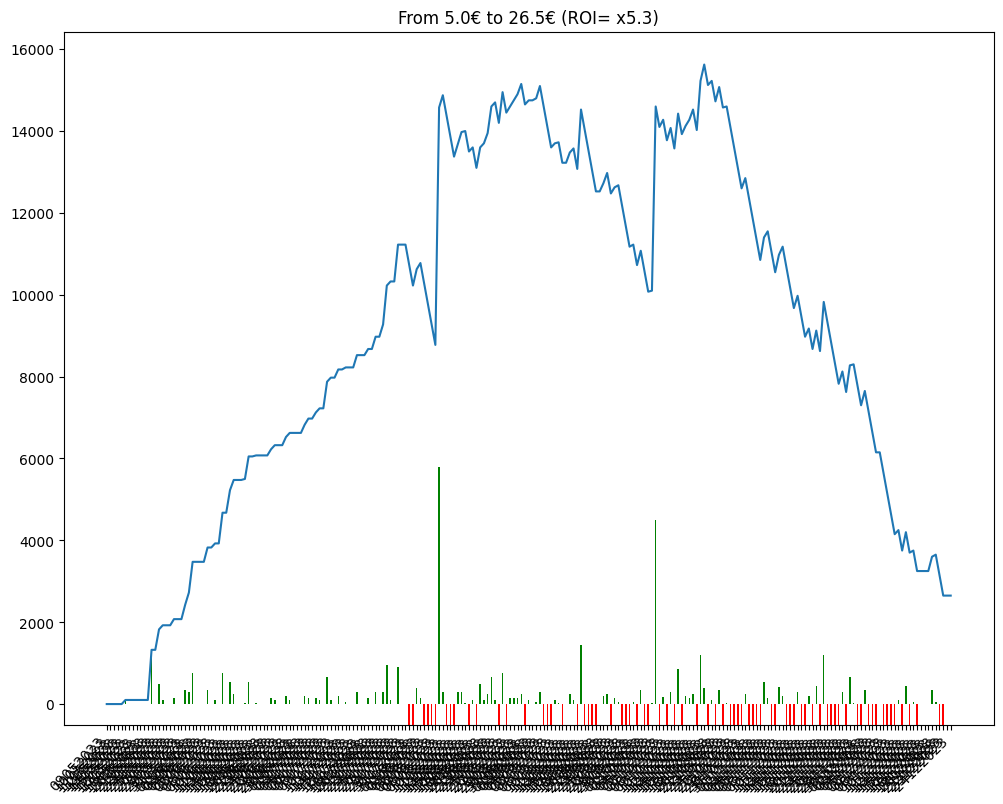
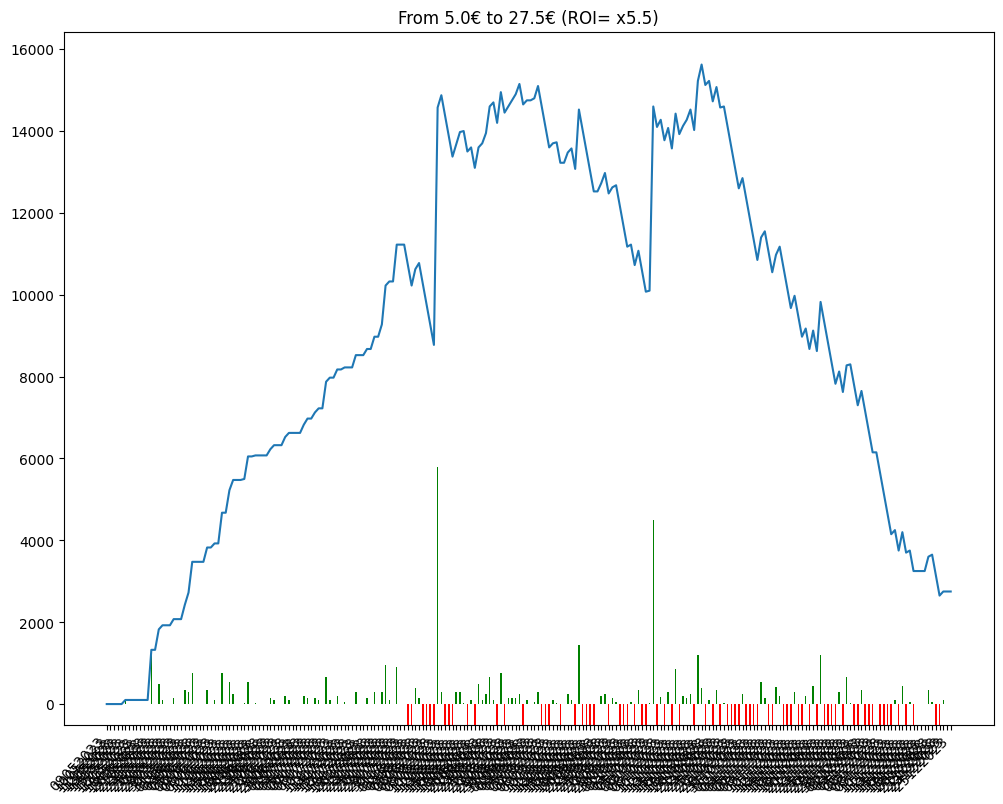
comment from python script

diff --git a/bethistory.html b/bethistory.html
@@ -86,7 +86,7 @@
             En observant la courbe 🤔, on peut avoir une idée visuelle de l'évolution des gains et ainsi évaluer le model utilisé 🧑🏫.
         </p>
         
-        <img src = "/candle.png" alt="candle chart"/><table><tr><td>Chevaux joués</td><td>Gains</td><td>URL Circuits</td></tr><tr><td>5 - HER MAJESTY</td><td>0</td><td><a href=https://www.pmu.fr/turf/23122023/r5/c8 target="_blank">https://www.pmu.fr/turf/23122023/r5/c8</a></td></tr>
+        <img src = "/candle.png" alt="candle chart"/><table><tr><td>Chevaux joués</td><td>Gains</td><td>URL Circuits</td></tr><tr><td>5 - HER MAJESTY</td><td>+100</td><td><a href=https://www.pmu.fr/turf/23122023/r5/c8 target="_blank">https://www.pmu.fr/turf/23122023/r5/c8</a></td></tr>
 <tr><td>10 - KOA</td><td>-500</td><td><a href=https://www.pmu.fr/turf/22122023/r2/c1 target="_blank">https://www.pmu.fr/turf/22122023/r2/c1</a></td></tr>
 <tr><td>9 - SKAI DE SAULARIE</td><td>-500</td><td><a href=https://www.pmu.fr/turf/21122023/r2/c2 target="_blank">https://www.pmu.fr/turf/21122023/r2/c2</a></td></tr>
 <tr><td>6 - CHILL CHIBI</td><td>+50</td><td><a href=https://www.pmu.fr/turf/20122023/r2/c5 target="_blank">https://www.pmu.fr/turf/20122023/r2/c5</a></td></tr>
